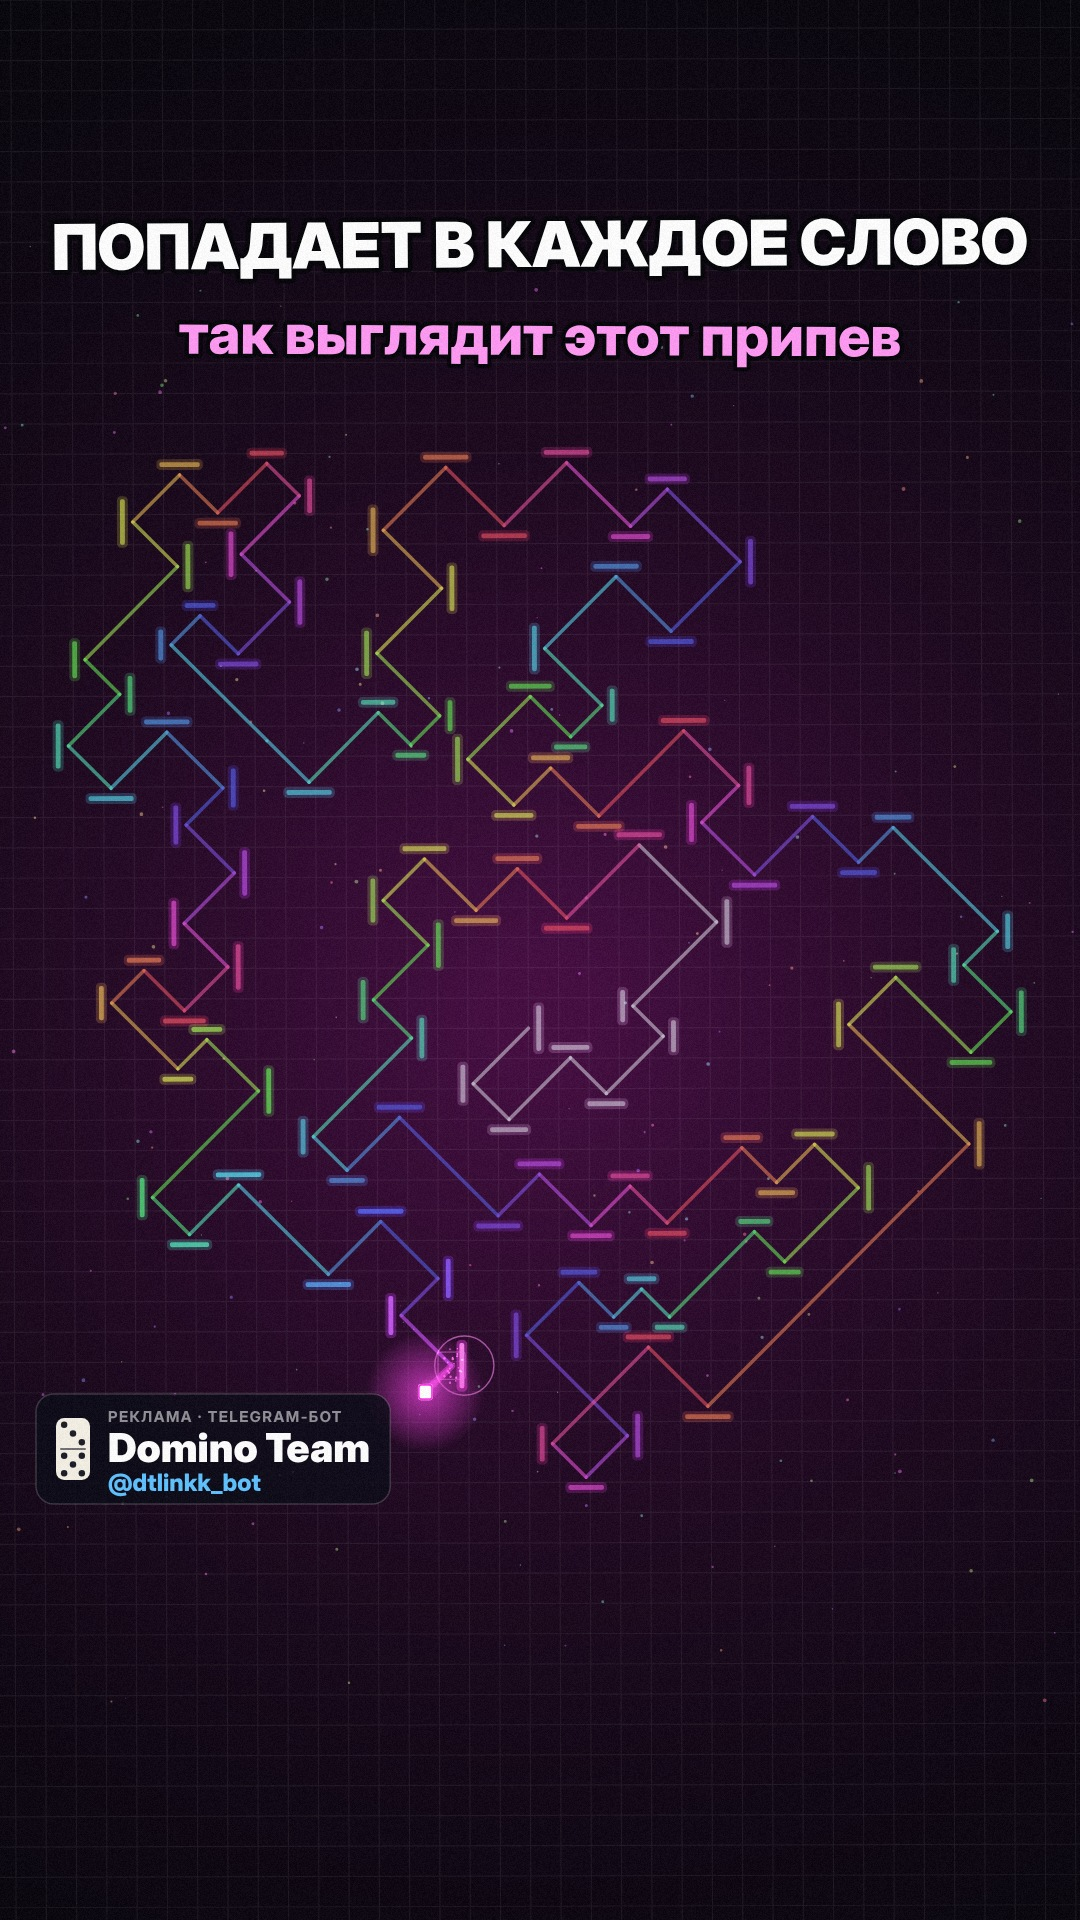
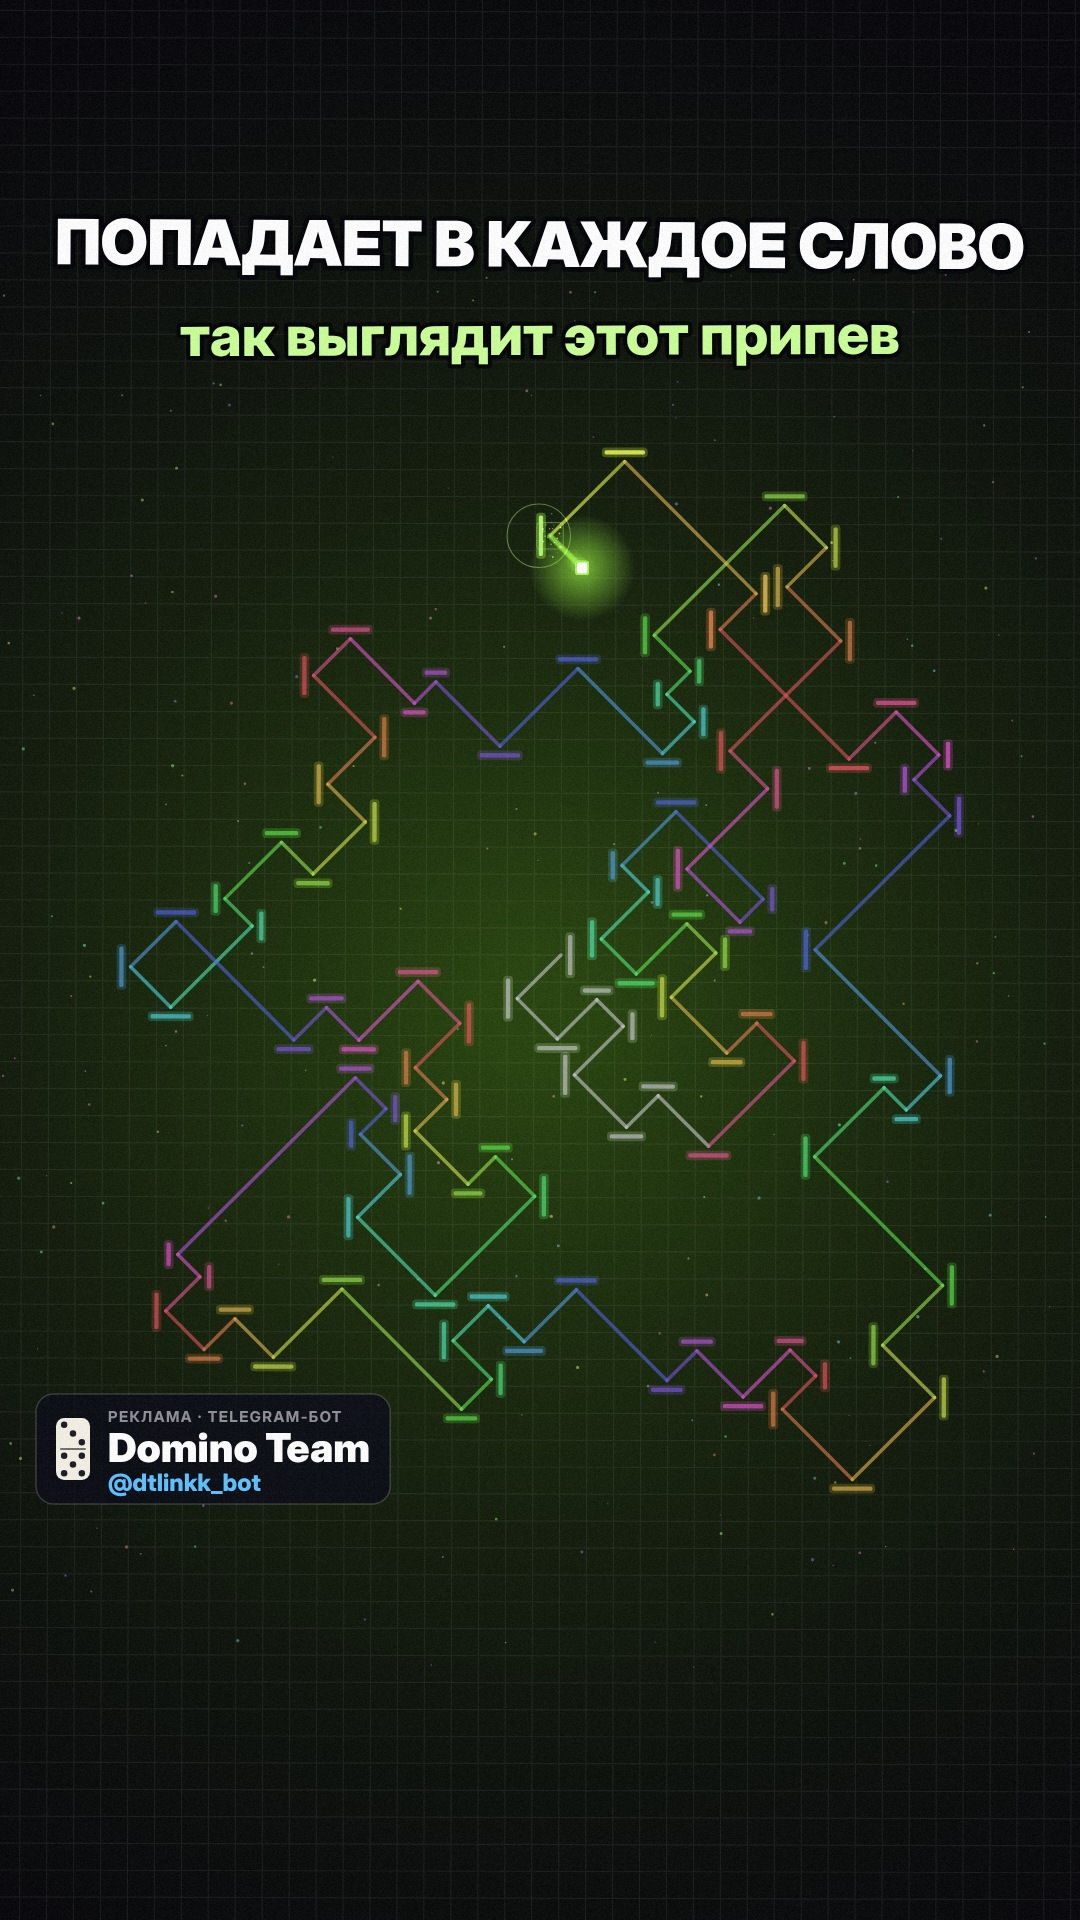
Hit the words properly: separate the vocals with MDX-Net first
separate.py runs UVR's Kim_Vocal_2 ONNX model (onnxruntime, no torch)
on the clip; vocal_hits.py --vocals then puts a hit wherever the voice
jumps out of a dip. On the «Andy Warhol» chorus the hits now line up with
the rap's sixteenth grid (48% vs 30% by chance) instead of scattering.

Claude-Session: https://claude.ai/code/session_015maj3fbDDPQb9VoSohYQNV

diff --git a/beat-bounce/separate.py b/beat-bounce/separate.py
@@ -1,0 +1,76 @@
+#!/usr/bin/env python3
+"""Pulls the vocals out of a stretch of a track with an MDX-Net model (UVR's Kim_Vocal_2.onnx).
+
+    python3 separate.py track.mp3 --start 28.34 --dur 32.64 --model Kim_Vocal_2.onnx --out vocals.wav
+
+The model works on spectrogram chunks: 7680-point STFT, hop 1024, 256 frames, the lowest 3072 bins,
+both channels' real and imaginary parts stacked as 4 planes. Chunks overlap by the STFT's own padding,
+which is trimmed off before they are joined. Model weights: github.com/TRvlvr/model_repo (releases).
+"""
+import argparse
+import subprocess
+import wave
+
+import numpy as np
+import onnxruntime as ort
+
+SR, N_FFT, HOP, DIM_F, DIM_T, COMPENSATE = 44100, 7680, 1024, 3072, 256, 1.009
+CHUNK = HOP * (DIM_T - 1)
+TRIM = N_FFT // 2
+GEN = CHUNK - 2 * TRIM
+WIN = np.hanning(N_FFT + 1)[:-1].astype(np.float32)       # periodic Hann, as torch.hann_window
+
+
+def stft(x):        # x: (2, CHUNK) → (2, N_FFT//2+1, DIM_T), centred frames like torch.stft(center=True)
+    p = np.pad(x, ((0, 0), (N_FFT // 2, N_FFT // 2)), mode='reflect')
+    idx = np.arange(N_FFT)[None, :] + HOP * np.arange(DIM_T)[:, None]
+    return np.fft.rfft(p[:, idx] * WIN, axis=2).transpose(0, 2, 1)
+
+
+def istft(S):       # inverse of stft() with window-squared normalisation
+    frames = np.fft.irfft(S.transpose(0, 2, 1), n=N_FFT, axis=2) * WIN
+    out = np.zeros((2, CHUNK + N_FFT), np.float32)
+    norm = np.zeros(CHUNK + N_FFT, np.float32)
+    for i in range(DIM_T):
+        out[:, i * HOP: i * HOP + N_FFT] += frames[:, i]
+        norm[i * HOP: i * HOP + N_FFT] += WIN ** 2
+    out /= np.maximum(norm, 1e-8)
+    return out[:, N_FFT // 2: N_FFT // 2 + CHUNK]
+
+
+def separate(mix, model):
+    sess = ort.InferenceSession(model)
+    n = mix.shape[1]
+    pad = GEN - n % GEN
+    x = np.concatenate([np.zeros((2, TRIM), np.float32), mix, np.zeros((2, pad + TRIM), np.float32)], axis=1)
+    out = []
+    for i in range(0, n + pad, GEN):
+        S = stft(x[:, i:i + CHUNK])[:, :DIM_F]
+        planes = np.stack([S[0].real, S[0].imag, S[1].real, S[1].imag])[None].astype(np.float32)
+        V = sess.run(None, {'input': planes})[0][0]
+        Vc = np.zeros((2, N_FFT // 2 + 1, DIM_T), np.complex64)
+        Vc[0, :DIM_F] = V[0] + 1j * V[1]
+        Vc[1, :DIM_F] = V[2] + 1j * V[3]
+        out.append(istft(Vc)[:, TRIM:TRIM + GEN])
+    return np.concatenate(out, axis=1)[:, :n] * COMPENSATE
+
+
+def main(track, start, dur, model, out):
+    raw = subprocess.run(['ffmpeg', '-v', 'error', '-i', track, '-ac', '2', '-ar', str(SR),
+                          '-af', f'atrim=start={start}:duration={dur},asetpts=PTS-STARTPTS', '-f', 'f32le', '-'],
+                         capture_output=True, check=True).stdout
+    mix = np.frombuffer(raw, dtype=np.float32).reshape(-1, 2).T.copy()
+    voc = separate(mix, model)
+    pcm = (np.clip(voc.T, -1, 1) * 32767).astype(np.int16)
+    with wave.open(out, 'wb') as w:
+        w.setnchannels(2); w.setsampwidth(2); w.setframerate(SR); w.writeframes(pcm.tobytes())
+    r = lambda a: 20 * np.log10(np.sqrt(np.mean(a ** 2)) + 1e-9)
+    print(f"vocals {r(voc):.1f} dBFS from a mix at {r(mix):.1f} dBFS → {out}")
+
+
+if __name__ == '__main__':
+    ap = argparse.ArgumentParser(description=__doc__.split('\n\n')[0])
+    ap.add_argument('track'); ap.add_argument('--start', type=float, required=True); ap.add_argument('--dur', type=float, required=True)
+    ap.add_argument('--model', required=True); ap.add_argument('--out', required=True)
+    a = ap.parse_args()
+    main(a.track, a.start, a.dur, a.model, a.out)

diff --git a/beat-bounce/vocal_hits.py b/beat-bounce/vocal_hits.py
@@ -66,10 +66,43 @@ def syllable_onsets(x, min_gap, sensitivity):
     return [(float(t[i]), float(min(1.0, s))) for i, s in zip(out, strength)]
 
 
-def main(track, beats_path, out, min_gap, sensitivity):
+def stem_onsets(path, min_gap, rise_db):
+    """Word and syllable starts in a separated vocal stem (separate.py): the voice's level jumps
+    by at least rise_db from the dip just before to the peak just after."""
+    import wave
+    w = wave.open(path)
+    sr = w.getframerate()
+    v = np.frombuffer(w.readframes(w.getnframes()), np.int16).reshape(-1, w.getnchannels()).mean(axis=1) / 32768
+    hop = sr // 200                                      # 5 ms
+    env = np.array([np.sqrt(np.mean(v[i:i + 2 * hop] ** 2)) for i in range(0, len(v) - 2 * hop, hop)])
+    db = 20 * np.log10(env + 1e-6)
+    floor = np.percentile(db, 95) - 28                   # quieter than this is not singing
+    d = np.diff(np.convolve(db, np.ones(3) / 3, 'same'), prepend=db[0])
+    cand = []
+    for i in range(2, len(db) - 12):
+        if d[i] <= 0 or d[i] < d[i - 1] or d[i] < d[i + 1]:
+            continue
+        before, after = db[max(0, i - 16): i].min(), db[i: i + 12].max()
+        if after > floor and after - before >= rise_db:
+            j = i - 16 + int(np.argmin(db[max(0, i - 16): i])) if i >= 16 else int(np.argmin(db[:i]))
+            k = j + int(np.argmax(np.diff(db[j: i + 12]))) + 1   # steepest point of the rise
+            cand.append((k * hop / sr + hop / sr, after - before))
+    out = []
+    for tt, rise in sorted(cand, key=lambda c: -c[1]):
+        if all(abs(tt - o[0]) >= min_gap for o in out):
+            out.append((tt, rise))
+    out.sort()
+    top = np.percentile([r for _, r in out], 90) if out else 1
+    return [(tt, min(1.0, r / top)) for tt, r in out]
+
+
+def main(track, beats_path, out, min_gap, sensitivity, vocals=None, rise_db=6.0):
     d = json.load(open(beats_path))
-    x = decode(track, d['start'], d['duration'])
-    hits = syllable_onsets(x, min_gap, sensitivity)
+    if vocals:
+        hits = stem_onsets(vocals, min_gap, rise_db)
+    else:
+        x = decode(track, d['start'], d['duration'])
+        hits = syllable_onsets(x, min_gap, sensitivity)
     drop_t = d['drop'] - d['start']
     events = [{'t': 0.0, 's': 1.0, 'kind': 'start'}]
     # the first syllable at or after the drop takes the drop's fireworks
@@ -96,5 +129,7 @@ if __name__ == '__main__':
     ap.add_argument('--out', required=True)
     ap.add_argument('--min-gap', type=float, default=0.14, help='seconds; closer syllables merge into one hit')
     ap.add_argument('--sensitivity', type=float, default=1.6, help='how far above the running median a rise must go')
+    ap.add_argument('--vocals', help='a separated vocal stem of the clip (separate.py); much more exact')
+    ap.add_argument('--rise-db', type=float, default=6.0, help='with --vocals: how sharp a jump counts as a new word')
     a = ap.parse_args()
-    main(a.track, a.beats, a.out, a.min_gap, a.sensitivity)
+    main(a.track, a.beats, a.out, a.min_gap, a.sensitivity, a.vocals, a.rise_db)

diff --git a/beat-bounce/README.md b/beat-bounce/README.md
@@ -63,8 +63,10 @@ node build.js --beats shade.json --track шадэ.mp3 --out beat-bounce-shade.mp
 python3 analyze.py andy-warhol.mp3 --out andy.json --drop 30.266 --before 1 --after 16
 node build.js --beats andy.json --track andy-warhol.mp3 --out beat-bounce-andy.mp4 --seed 7 --bound 1600,2000
 
-# «Andy Warhol», удары по словам: начала слогов вместо барабанов (vocal_hits.py, без распознавания речи)
-python3 vocal_hits.py andy-warhol.mp3 andy.json --out andy-vocal.json --sensitivity 1.15
+# «Andy Warhol», удары по словам: голос отделяется моделью MDX-Net (Kim_Vocal_2.onnx из релизов
+# github.com/TRvlvr/model_repo, pip install onnxruntime), удар — где голос резко поднимается из провала
+python3 separate.py andy-warhol.mp3 --start 28.34 --dur 32.64 --model Kim_Vocal_2.onnx --out andy-vocals.wav
+python3 vocal_hits.py andy-warhol.mp3 andy.json --vocals andy-vocals.wav --rise-db 9 --min-gap 0.12 --out andy-vocal.json
 node build.js --beats andy-vocal.json --track andy-warhol.mp3 --out beat-bounce-andy-words.mp4 --seed 11 --bound 1600,2000 \
   --title "ПОПАДАЕТ В КАЖДОЕ СЛОВО" --reveal "так выглядит этот припев"
 
@@ -77,7 +79,8 @@ node build.js --track трек.mp3 --ad-title "Domino Team" --ad-sub "@dtlinkk_b
 | `analyze.py` | Ищет сетку битов (155,07 BPM) по спектральному потоку и уточняет её усреднением атак по всем долям. Дроп находит по удару тарелки. Удары между долями отбирает по силе атаки относительно долей того же такта, во второй половине порог мягче. Пишет `beats.json` |
 | `beats.json` | Время и сила каждого удара, огибающие громкости и баса. Самого звука в файле нет |
 | `bounce.js` | Планирует путь: диагональный полёт с постоянной скоростью, стенка в момент каждого удара, на быстрых сериях стенки короче. Поиск с возвратом следит, чтобы квадрат не пролетал сквозь стенки и путь оставался компактным |
-| `vocal_hits.py` | Удары по словам: разделяет звук на тональную и ударную части, в голосовой полосе ищет начала слогов |
+| `separate.py` | Отделяет голос от музыки моделью MDX-Net (ONNX) |
+| `vocal_hits.py` | Удары по словам: начала слов и слогов в отделённом голосе (или, без него, грубо по тональной части микса) |
 | `render.html` | Отрисовка кадров на canvas и эффекты монтажа: зум-панчи, наклон камеры, RGB, глитч, негатив |
 | `build.js` | Сборка: путь, кадры из Chromium, точный вырез фрагмента трека, запас 3 dB по пику, ffmpeg |
 
